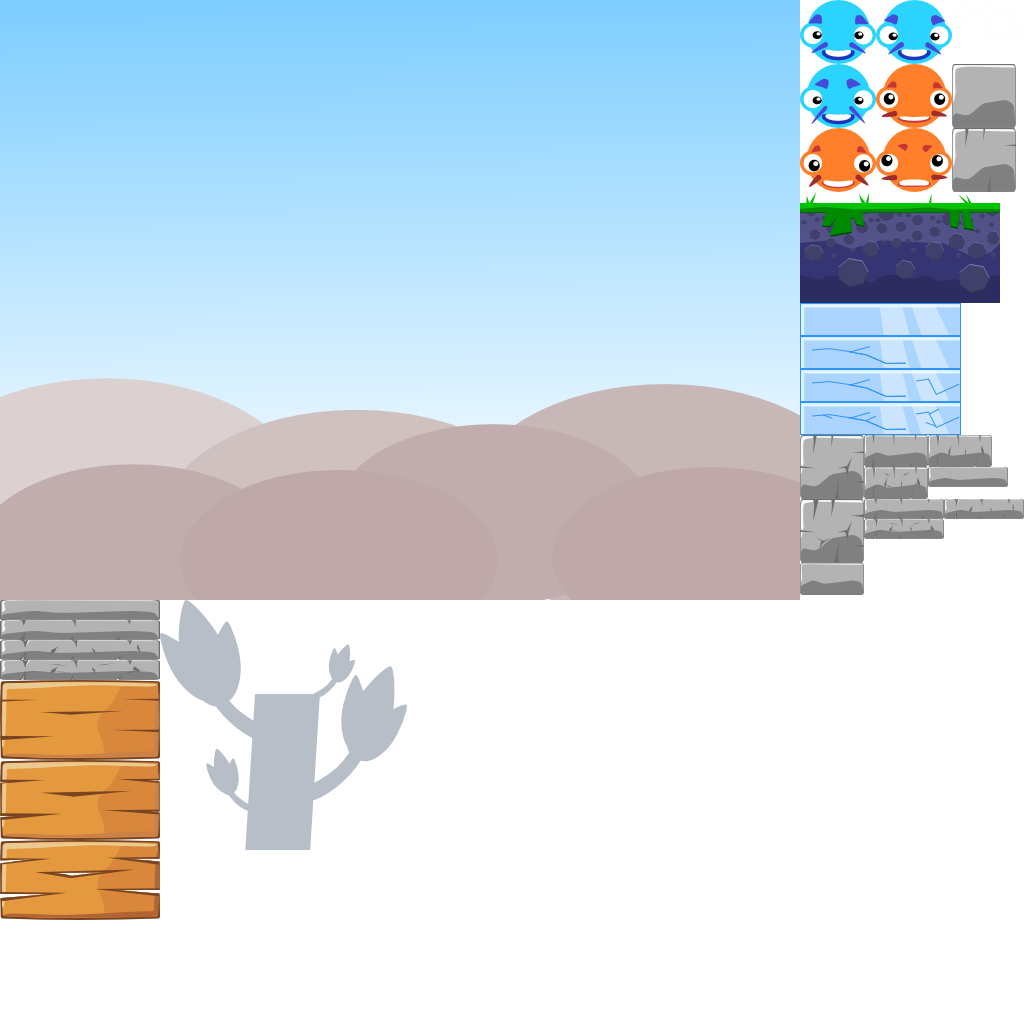
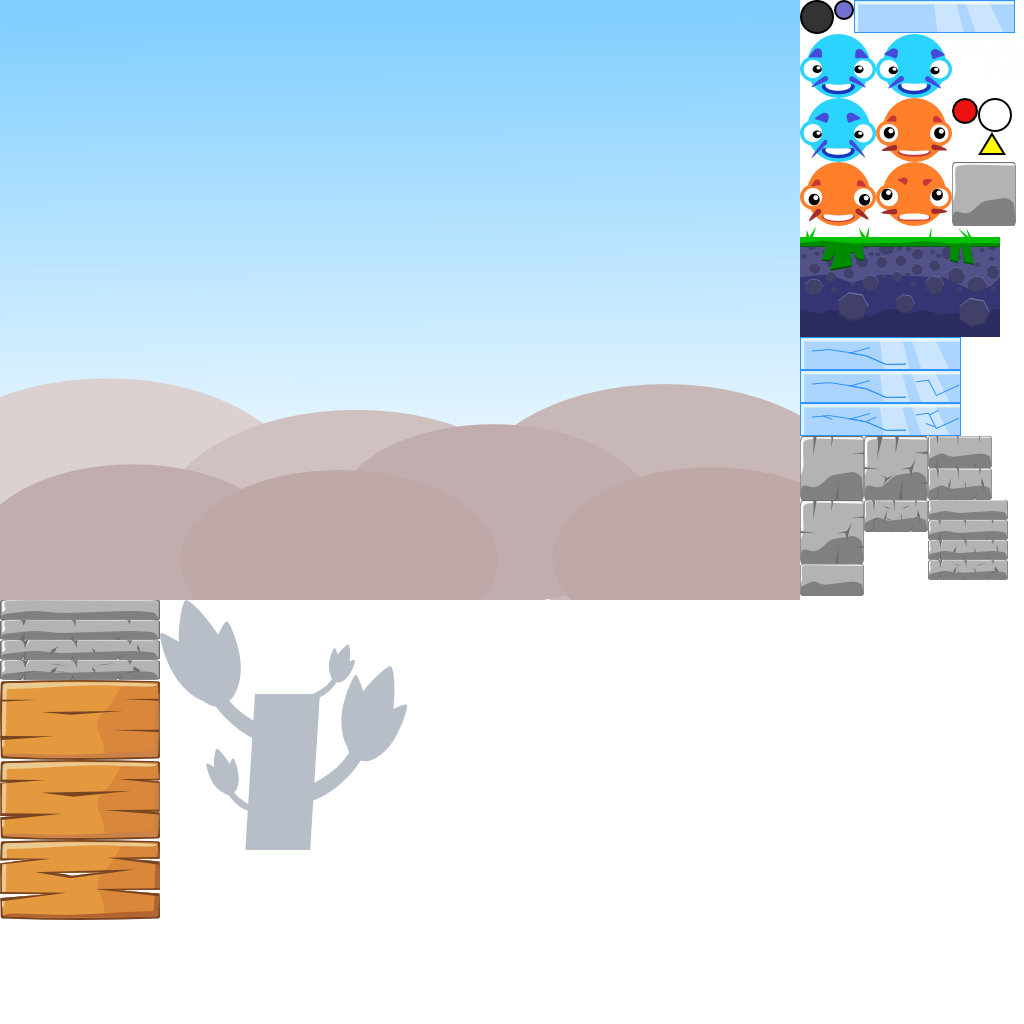
added actor images to atlas

Changed region(s): [[0.7812, 0.0, 1.0, 0.5938], [0.7812, 0.4688, 0.8125, 0.5]]

diff --git a/src/js/Actors.js b/src/js/Actors.js
@@ -1,7 +1,7 @@
 define(['box2d', 'GameObject', 'Factory'], function(box2d, GameObject, Factory){
   var body, fixture, shapes;
   
-  var sprite = "c-or-1.png";
+  var sprite;
   
   body = {
     static: false
@@ -24,18 +24,23 @@ define(['box2d', 'GameObject', 'Factory'], function(box2d, GameObject, Factory){
     switch (TYPE){
       case "BLUE":
         fixture.radius = 10;
+        sprite = "blue-actor.png";
         break;
       case "YELLOW":
         fixture.radius = 20;
+        sprite = "yellow-actor.png";
         break;
       case "BLACK":
         fixture.radius = 22;
+        sprite = "black-actor.png";
         break;
       case "WHITE":
         fixture.radius = 20;
+        sprite = "white-actor.png";
         break;
       default: /// RED
         fixture.radius = 20;
+        sprite = "red-actor.png";
     }
     
     var a = new GameObject({});
